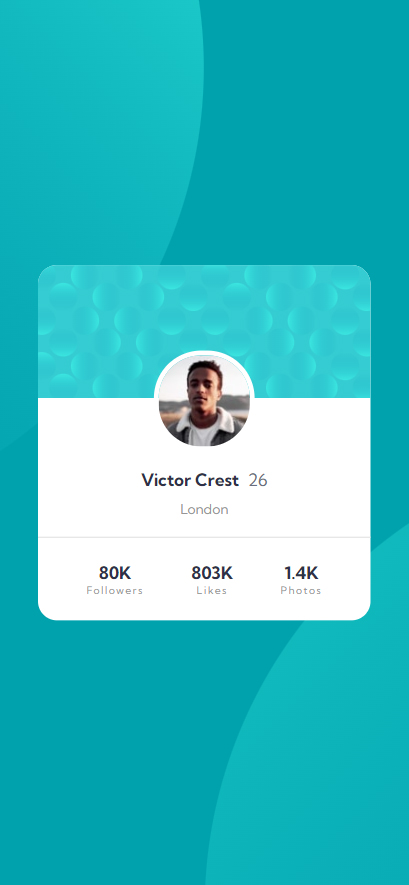
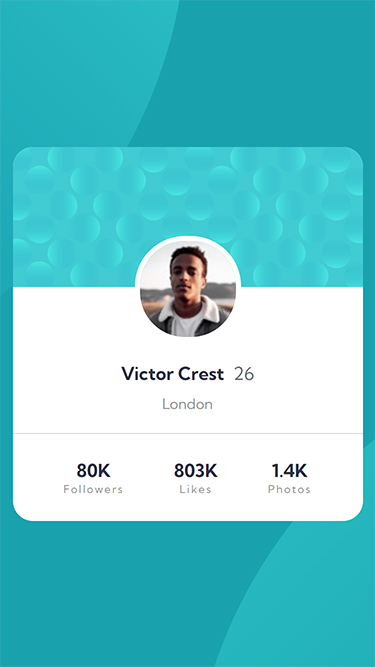
modified readme

diff --git a/README.md b/README.md
@@ -19,10 +19,13 @@ This is a solution to the [Profile card component challenge on Frontend Mentor](
 
 ### Screenshot
 
-#### Deskop
+#### Deskop 1920px
 ![](./screenshots/deskop-screenshot.jpg)
 
-#### Mobile
+#### Tablet 768px
+![](./screenshots/tablet-screenshot.jpg)
+
+#### Mobile 375px
 ![](./screenshots/mobile-screenshot.jpg)
 
 ## My process
